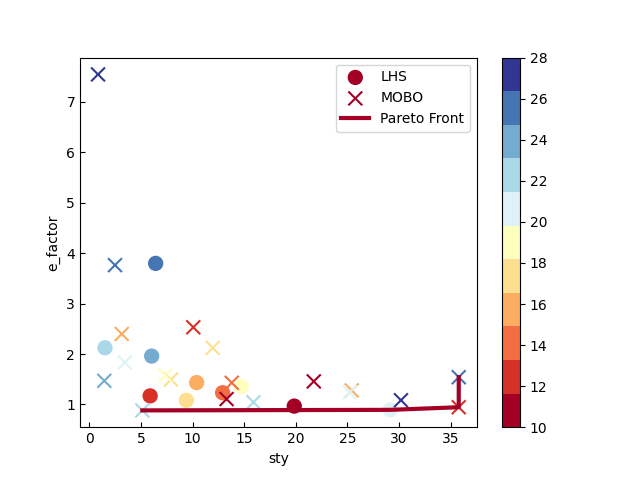
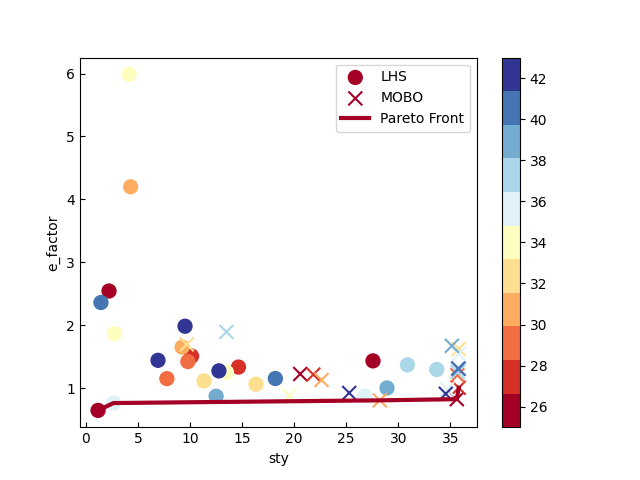
Fix reference point and rerun

diff --git a/optimize.py b/optimize.py
@@ -109,7 +109,6 @@ class MOBO(Strategy):
         self,
         domain: Domain,
         transform: Transform = None,
-        dynamic_reference_point: bool = True,
         input_groups: Optional[Dict[str, List[str]]] = None,
         **kwargs,
     ):
@@ -124,7 +123,6 @@ class MOBO(Strategy):
             self.static_reference_point[v.name] = (
                 v.bounds[1] if v.maximize else -v.bounds[0]
             )
-        self.dynamic_reference_point = dynamic_reference_point
 
         # Input grouping
         self.input_groups = input_groups
@@ -182,13 +180,15 @@ class MOBO(Strategy):
         self.model = self.fit_model(X, y)
 
         # Optimize acquisition function
+        reference_point = self._get_transformed_reference_point(output)
         results = self.optimize_acquisition_function(
             self.model,
-            X,
-            num_experiments,
+            X=X,
+            num_experiments=num_experiments,
+            reference_point=reference_point,
             num_restarts=kwargs.get("num_restarts", 100),
-            raw_samples=kwargs.get("raw_samples", 1000),
-            mc_samples=kwargs.get("mc_samples", 128),
+            raw_samples=kwargs.get("raw_samples", 2000),
+            # mc_samples=kwargs.get("mc_samples", 128),
         )
 
         # Convert result to datset
@@ -231,14 +231,12 @@ class MOBO(Strategy):
         self,
         model,
         X: torch.Tensor,
+        reference_point: torch.Tensor,
         num_experiments: int,
         num_restarts: int = 100,
         raw_samples: int = 2000,
         mc_samples: int = 128,
     ):
-        # Hypervolume reference point
-        reference_point = self._get_transformed_reference_point()
-
         # Sampler
         sampler = SobolQMCNormalSampler(sample_shape=torch.Size([mc_samples]))
 
@@ -281,25 +279,13 @@ class MOBO(Strategy):
                 )
         return torch.tensor(np.array(bounds), dtype=dtype, device=self.device).T
 
-    def _get_transformed_reference_point(self):
+    def _get_transformed_reference_point(self, output: DataSet):
         transformed_reference_point = []
-        if self.dynamic_reference_point:
-            untransformed_reference_point = {}
-            for v in self.domain.output_variables:
-                val = self.all_experiments.sort_values(v.name, ascending=v.maximize)[
-                    v.name
-                ].iloc[0]
-                untransformed_reference_point[v.name] = val
-        else:
-            untransformed_reference_point = self.static_reference_point
-
         for v in self.domain.output_variables:
-            if isinstance(v, ContinuousVariable):
-                mean = self.transform.output_means[v.name]
-                std = self.transform.output_stds[v.name]
-                transformed_reference_point.append(
-                    (untransformed_reference_point[v.name] - mean) / std
-                )
+            # Get the worst point in each output
+            # Should always be transformed to a maximization problem
+            val = output.sort_values(v.name, ascending=True)[v.name].iloc[0]
+            transformed_reference_point.append(val)
         return torch.tensor(
             np.array(transformed_reference_point), dtype=dtype, device=self.device
         )
